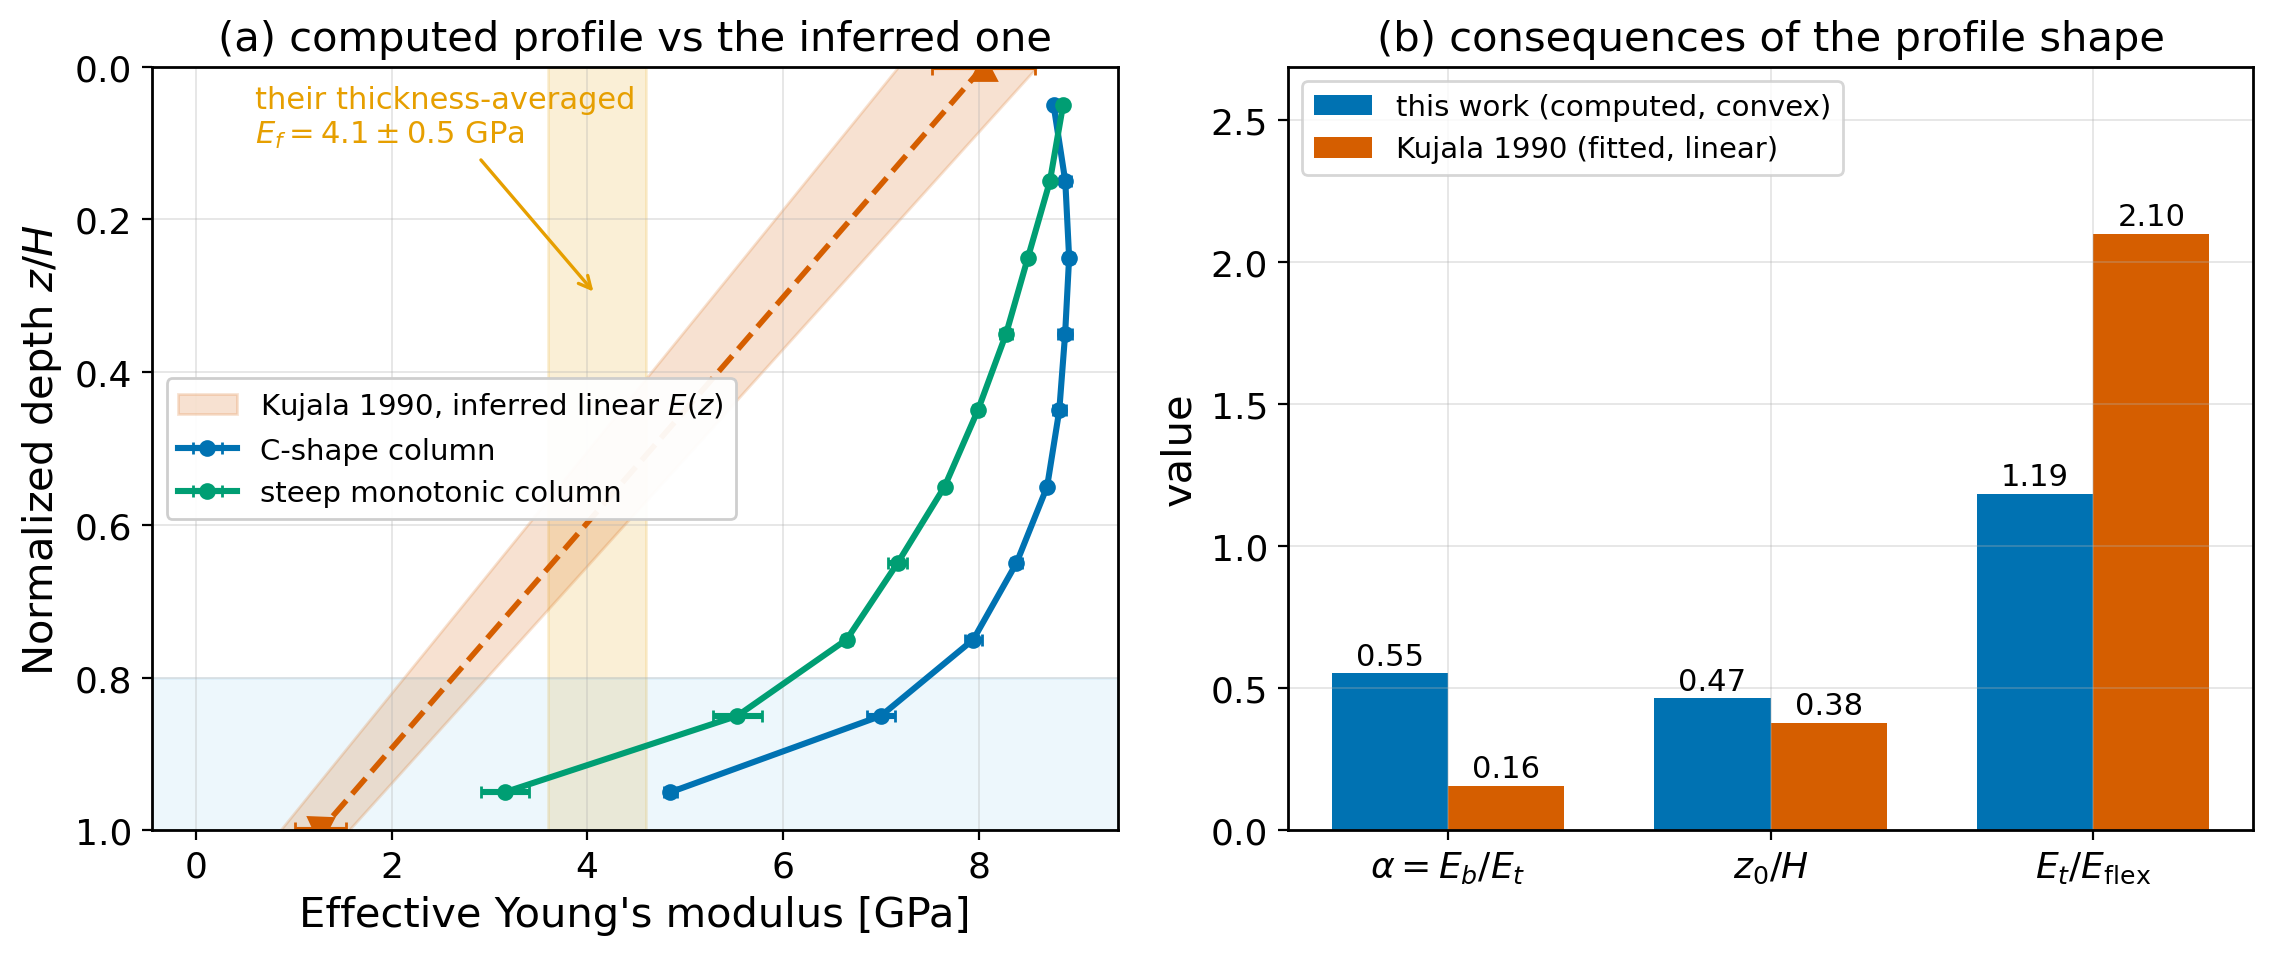
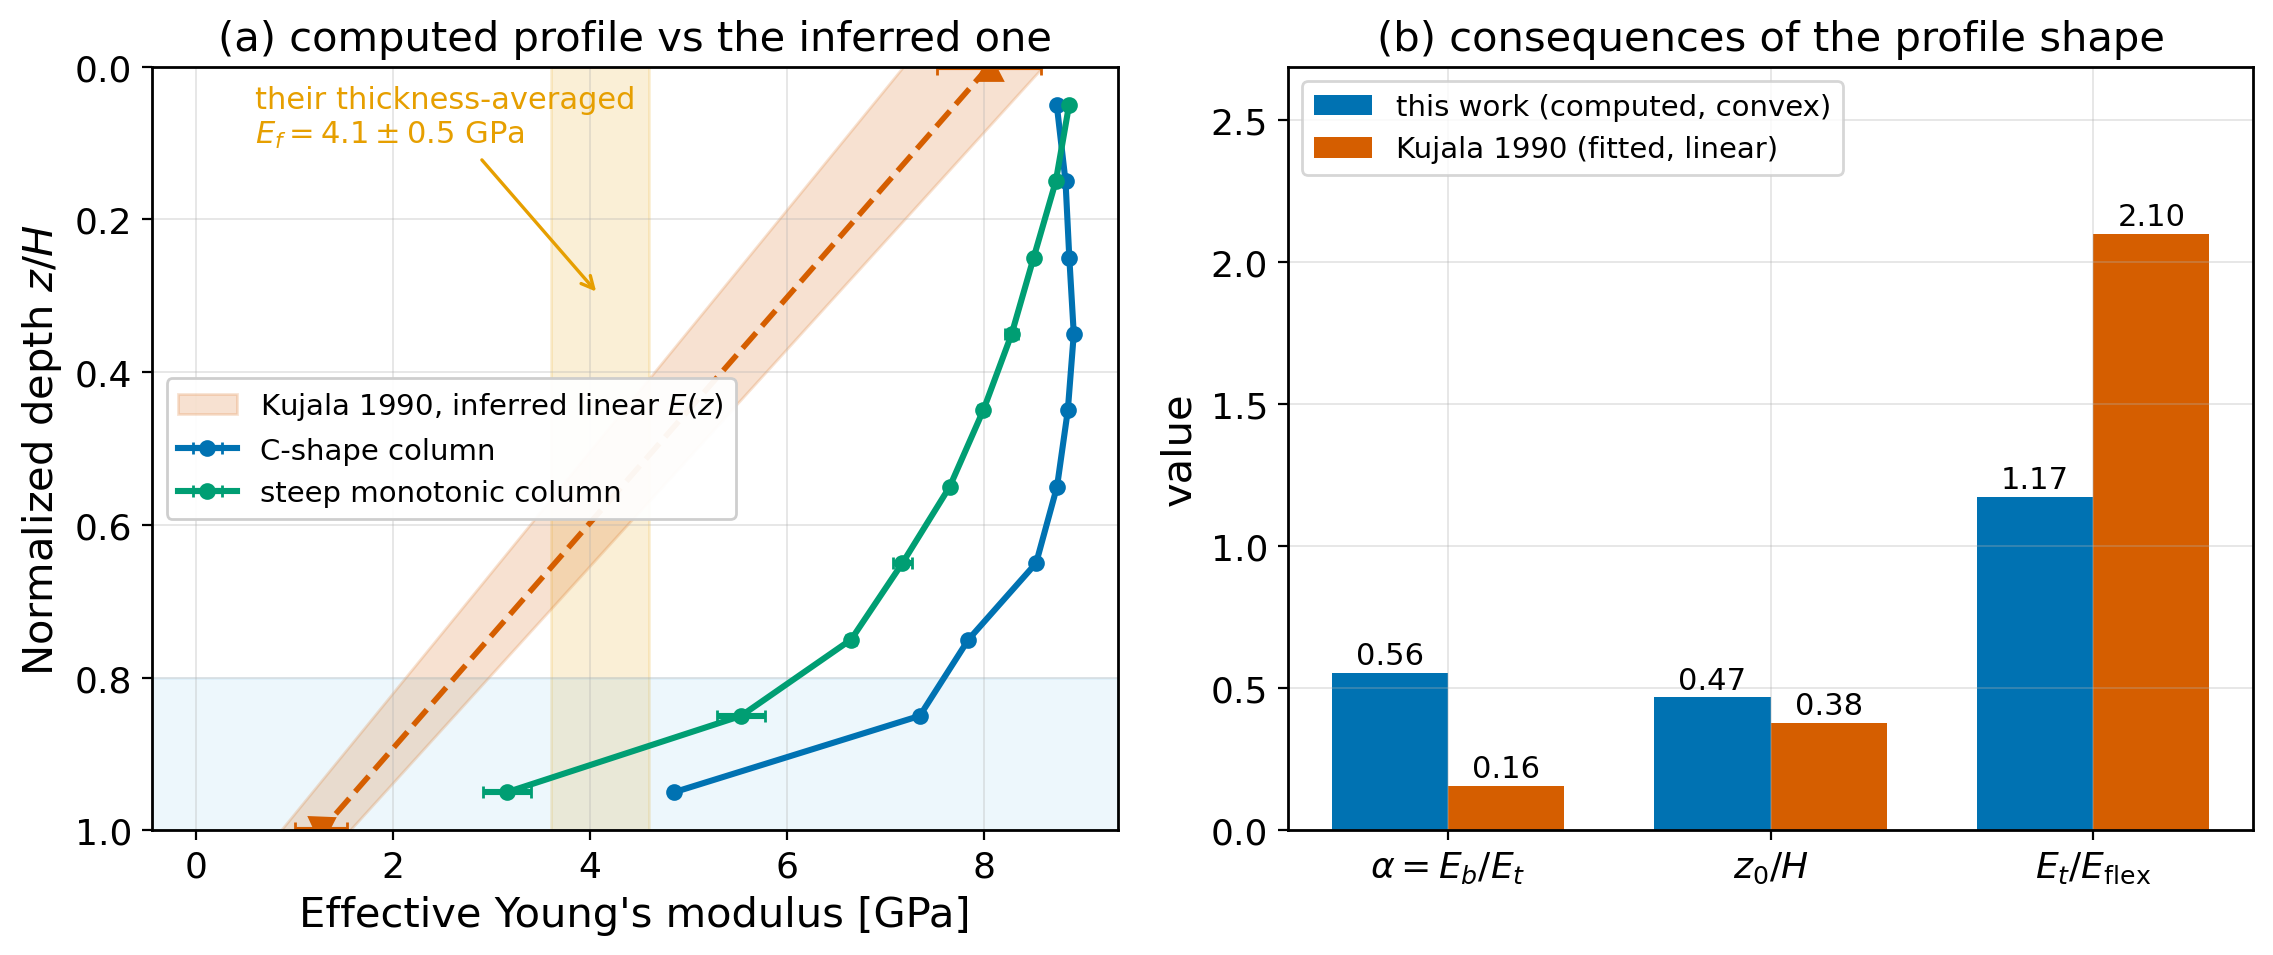
analysis: use the production column, and stop silently miscounting laminae
The manuscript audit turned up two ways these scripts disagreed with the
paper they support.

gradient_correction.py and skeletal_clt.py defaulted to results_column.csv,
whose base slice is the single reference packing that came out ~6 sigma low.
Section 4.3.3 discards that value and assembles the re-centred column, so
4.3.2 was quoting alpha=0.51 while 4.3.3 quoted 0.55 for the same profile.
Both now default to results_column_recentred.csv: alpha 0.555, gradient
factor 1.17, residual 1.96, matrix factor 0.51 against the calibrated 0.49.
plot_kujala.py likewise moves off results_colseeds.csv so panel (b) prints
the same E_top/E_flex as the text.

skeletal_clt.load_column() keyed slices on the digits in the run_id, so a
steep-column CSV carrying the four resolved basal sub-laminae (z955..z995)
built a 14-layer stack with every layer assumed equally thick. That put the
neutral plane at 0.402 instead of 0.440 and inverted the sign of the
convexity argument, with no warning. Sub-lamina rows are now dropped with a
message; they belong in --skeletal, which knows their real thicknesses.

Also corrects the docstring claim that the cold end lands inside Kujala's
measured top-surface range. It reaches the top of that range, 2% above
their stiffest beam and 22% above their softest.

prose_audit.py was untracked; it is the readability measurement behind the
language pass, so it is added here rather than left loose.

diff --git a/analysis/skeletal_clt.py b/analysis/skeletal_clt.py
@@ -5,7 +5,7 @@ The manuscript assembles ten equal slices by classical lamination theory
 above mid-depth. Kujala et al. (1990, IAHR, Table 2) measure z0/H = 0.37-0.39
 on strain-gauged floating beams, i.e. 11-13% above mid-depth, together with a
 bottom-to-top modulus ratio alpha = E_bot/E_top = 0.12-0.19. Our column gives
-alpha = 0.51.
+alpha = 0.55.
 
 This script works in the same one-dimensional (cylindrical-bending) reduction
 Kujala et al. used, so the comparison is like-for-like, and it accepts laminae
@@ -68,13 +68,29 @@ def report(E, t, z, H, label):
 
 
 def load_column(path):
-    """Mean E_eff per slice from a column results CSV (ddof=0 over packings)."""
+    """Mean E_eff per slice from a column results CSV (ddof=0 over packings).
+
+    Only the equal-thickness depth slices are returned. A steep-column file may
+    also carry the resolved basal sub-laminae (z955, z970, ...) in the same CSV;
+    those are a subdivision of the lowest slice, not extra slices, and admitting
+    them here would build a stack of n+4 layers all assumed equally thick. That
+    silently misplaces the neutral plane, so they are dropped and passed instead
+    through --skeletal, which knows their true thicknesses.
+    """
     g = defaultdict(list)
+    dropped = set()
     for r in csv.DictReader(open(path)):
+        rid = r['run_id'].split('_s')[0]
+        if len(rid.rsplit('_z', 1)[-1]) > 2:
+            dropped.add(rid)
+            continue
         try:
-            g[r['run_id'].split('_s')[0]].append(float(r['E_eff']))
+            g[rid].append(float(r['E_eff']))
         except (ValueError, KeyError, TypeError):
             continue
+    if dropped:
+        print('  (ignoring %d sub-lamina rows in %s: %s -- pass them via --skeletal)'
+              % (len(dropped), path, ', '.join(sorted(dropped))))
     out = []
     for rid in sorted(g, key=lambda k: int(''.join(c for c in k if c.isdigit()) or 0)):
         out.append((rid, st.mean(g[rid])))
@@ -157,7 +173,7 @@ def probe(E_col, H=1.0):
 
 def main():
     ap = argparse.ArgumentParser()
-    ap.add_argument('column', nargs='?', default='results_column.csv')
+    ap.add_argument('column', nargs='?', default='results_column_recentred.csv')
     ap.add_argument('--skeletal', default=None)
     ap.add_argument('--H', type=float, default=1.0)
     ap.add_argument('--probe', action='store_true')

diff --git a/analysis/prose_audit.py b/analysis/prose_audit.py
@@ -1,0 +1,58 @@
+#!/usr/bin/env python3
+"""Locate the hardest-to-read prose in a LaTeX manuscript.
+
+A reviewer asked for shorter sentences and fewer parenthetical insertions set
+off by em dashes. Rewriting blind risks touching the passages that are already
+fine while missing the ones that prompted the request, so this measures first:
+per section, the number of sentences, their mean length, the count of em-dash
+insertions, and how many sentences exceed forty words.
+
+Figures and tables are stripped before counting, since captions are read
+differently from body text and their length is not the complaint.
+
+    python3 prose_audit.py main_rev.tex
+"""
+import re
+import sys
+
+
+def body(t):
+    t = re.sub(r'\\begin\{figure\}.*?\\end\{figure\}', '', t, flags=re.S)
+    t = re.sub(r'\\begin\{table\*?\}.*?\\end\{table\*?\}', '', t, flags=re.S)
+    return t
+
+
+def main():
+    path = sys.argv[1] if len(sys.argv) > 1 else 'main_rev.tex'
+    s = open(path, encoding='utf8', newline='').read()
+    pat = re.compile(r'\\(?:sub)*section\{([^}]*)\}')
+    secs = [(m.start(), m.group(1)) for m in pat.finditer(s)]
+
+    print('%-50s %6s %8s %8s %7s' % ('section', 'sents', 'avg wds', 'emdash', '>40w'))
+    tot = 0
+    rows = []
+    for i, (a, name) in enumerate(secs):
+        b = secs[i + 1][0] if i + 1 < len(secs) else len(s)
+        t = body(s[a:b])
+        d = t.count('---')
+        tot += d
+        sents = [x for x in re.split(r'(?<=[.!?])\s+', re.sub(r'\s+', ' ', t))
+                 if len(x.split()) > 4]
+        if len(sents) < 3:
+            continue
+        avg = sum(len(x.split()) for x in sents) / len(sents)
+        l40 = sum(1 for x in sents if len(x.split()) > 40)
+        rows.append((avg, name, len(sents), d, l40))
+        print('%-50s %6d %8.1f %8d %7d' % (name[:50], len(sents), avg, d, l40))
+
+    print()
+    print('total em-dash insertions: %d' % tot)
+    print()
+    print('worst by mean sentence length:')
+    for avg, name, n, d, l40 in sorted(rows, reverse=True)[:8]:
+        print('  %-44s %5.1f wds  %2d dashes  %2d sents >40 wds'
+              % (name[:44], avg, d, l40))
+
+
+if __name__ == '__main__':
+    main()

diff --git a/analysis/plot_kujala.py b/analysis/plot_kujala.py
@@ -12,15 +12,18 @@ The comparison has to be made carefully, because the two determinations are not
 the same object. Ours is a computed profile; theirs is a two-parameter fit whose
 functional form is assumed. The panels separate what agrees from what does not.
 
-(a) The profiles. Our cold-end modulus lands inside the range of their measured
-    top-surface values with no rescaling, which is the strongest agreement in
-    the comparison. The base does not: their inferred bottom-surface modulus is
-    far softer than anything a periodic cell can be made to produce.
+(a) The profiles. Our cold-end modulus reaches the top of the range of their
+    measured top-surface values with no rescaling -- it exceeds their stiffest
+    of four beams by 2% and their softest by 22% -- which is the closest
+    agreement in the comparison, though at the stiff edge of their range rather
+    than central to it. The base does not agree at all: their inferred
+    bottom-surface modulus is far softer than anything a periodic cell can be
+    made to produce.
 
 (b) What follows from the shape. Their linear profile places the neutral plane
     at z0/H = 0.37-0.39; ours, being convex, places it near 0.44-0.47 whatever
     the endpoints. The same convexity makes our profile less gradient-affected
-    than a straight line, so the flexural correction E_top/E_flex is 1.19 for
+    than a straight line, so the flexural correction E_top/E_flex is 1.17 for
     our column against ~2.1 for theirs.
 
 Run from results/:  python3 ../analysis/plot_kujala.py
@@ -78,7 +81,10 @@ def flex(E, H=1.0):
 
 def main():
     prof = {}
-    for path, lab in (('results_colseeds.csv', 'C-shape column'),
+    # The re-centred column, not results_colseeds.csv: this is the profile the
+    # manuscript tabulates and assembles by CLT, so panel (b) has to be computed
+    # on it or the figure prints a different E_top/E_flex than Section 4.3.2.
+    for path, lab in (('results_column_recentred.csv', 'C-shape column'),
                       ('results_steep_column.csv', 'steep monotonic column')):
         if os.path.isfile(path):
             m, s = load(path)

diff --git a/analysis/gradient_correction.py b/analysis/gradient_correction.py
@@ -74,7 +74,12 @@ def k7(alpha):
 
 
 def main():
-    paths = sys.argv[1:] or ['results_column.csv', 'results_steep_column.csv']
+    # The re-centred column is the production one: its base is the five-packing
+    # mean, not the single reference packing that came out ~6 sigma low. Section
+    # 4.3.3 assembles that column, so the gradient correction has to use it too
+    # or the two sections disagree on alpha.
+    paths = sys.argv[1:] or ['results_column_recentred.csv',
+                             'results_steep_column.csv']
     print('%-28s %8s %9s %9s %9s %9s'
           % ('profile', 'alpha', 'E_top', 'E_flex', 'ratio', 'K7(alpha)'))
     rows = []
